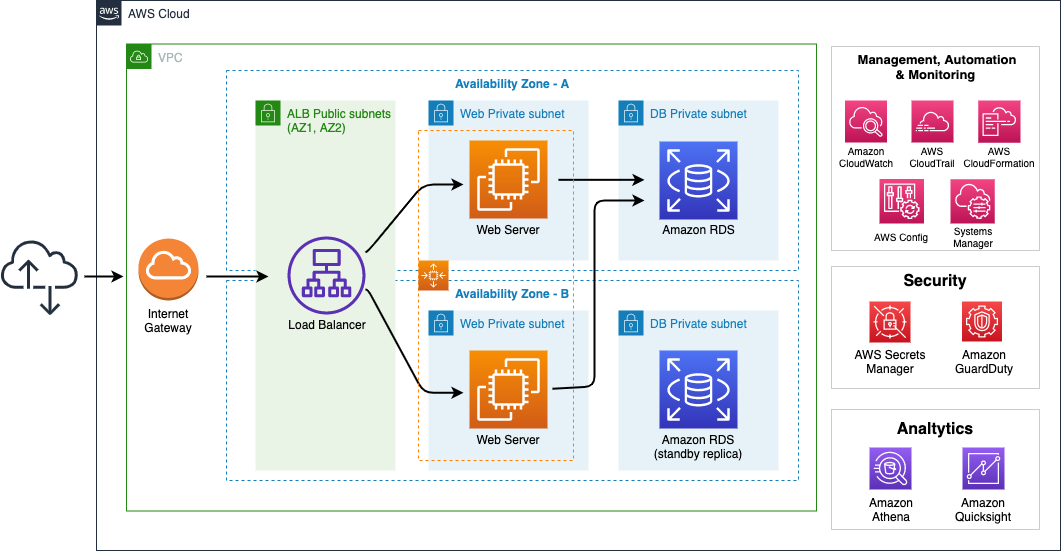
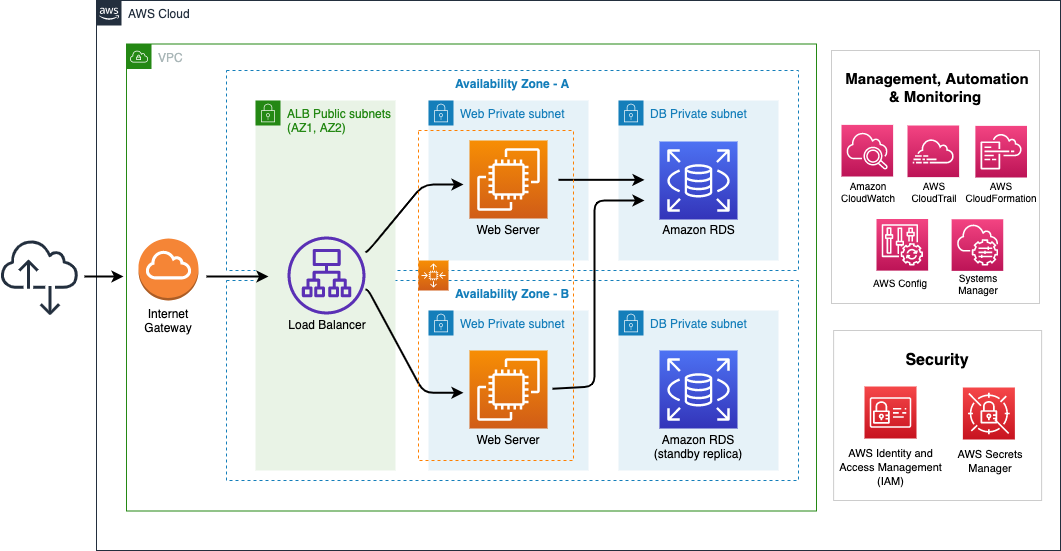
update

Changed region(s): [[0.7776, 0.0617, 0.9953, 0.9564]]

diff --git a/content/work0/_index.md b/content/work0/_index.md
@@ -11,28 +11,27 @@ These labs are designed *to be completed in sequence*, and the full set of instr
 
 ## The context
 
-You work for an AWS Partner, and have a new customer, **AnyCompany**, which is a retail business. One of the main apps for the company is a product catalog; a web application that they recently migrated to the AWS Cloud from their on-premises environment. Even though the application is functional, the customer wants to have an architecture with best practices applied, because the business is growing. They are looking for an architecture that meets the new performance requirements, mitigates risks, and saves money. For them, it is crucial to use automation. 
+You work for **AnyCompany**, a retail business. One of the main apps for the company is a *product catalog;* a web application recently migrated to the AWS Cloud from the on-premises environment. Even though the application is functional, it is crucial to have an architecture with best practices applied, because the business is growing. As part of the Well-Architected practitioners team, you are looking for an architecture that meets the new performance requirements, mitigates risks, and saves money. Automation is also a fundamental part of the solution. 
 
-The following is the initial architecture that you have found. Your mission is to improve upon it by applying some of the Well-Architected principles, according to the company’s needs.
+The following is the initial architecture. Your mission is to improve upon it by applying some of the Well-Architected principles, according to the company’s needs.
 
 <img src="images/starting.png" alt="drawing" width="600"/>
 
 ## Architecture review
 
-You proposed doing a Well-Architected Framework Review (WAFR) of the customer’s environment to better understand the current status and their needs. After that review, you identified some insights, the most relevant of which are listed below:
+You proposed doing a Well-Architected Framework Review (WAFR) of the application’s environment to better understand the current status and the needs. After that review, you identified some insights, the most relevant of which are listed below:
 
-1. They are performing a lot of operational tasks manually. The customer wants to automate the process to provide visibility into some important performance metrics, like memory or disk utilization. Additionally, they need a centralized log monitoring for DB and App. 
-
-2.	It is clear for the customer that they need to have a highly available architecture.
-3.	Security is their top priority. The more insights they can have available related to this topic, the better.
+1. Most of the operational tasks are performed manually. AnyCompany wants to automate the process to provide visibility into some important performance metrics, like memory or disk utilization. Additionally, a centralized log monitoring for DB and App is needed. 
+2.	A highly available architecture is required for the product catalog application.
+3.	Security is a top priority. The more insights available related to this topic, the better.
 4.	They are not sure about the decision that they made when they chose a t2.micro instance to run the application. Performance is something that they do not want to sacrifice. AnyCompany people want to do some stress tests for the application, especially because they are expecting an increase in the demand on the application in the near future.
-5.	Cost matters. The customer would like to have a clear visibility about costs and usage for the AWS Services. They would like to use a flexible tool for creating their own dashboards according to their needs. 
+5.	Cost matters. Other teams at AnyCompany are testing other apps, and have had some users launch EC2 instances with optimized resources, when they are not needed. This situation has increased the monthly bill. Therefore, some controls should be implemented in order to avoid this issue in the future. 
 
-The information above is your starting point to help this customer enhance the architecture and achieve their objectives. You may identify more opportunities for improvement in this architecture but, for the purposes of the workshop, just focus on these findings.
+The information above is your starting point to help enhancing the architecture and achieving organization objectives. You may identify more opportunities for improvement in this architecture but, for the purposes of the workshop, just focus on these findings.
 
 ## Target Architecture
 
-After a Well-Architected Framework Review (WAFR), you and AnyCompany have defined a target architecture. This architecture will help the customer achieve their initial objectives. You are going to utilize the five Well-Architected pillars to implement the following architecture:
+After a Well-Architected Framework Review (WAFR), a target architecture has been defined. This architecture will help AnyCompany to achieve their initial objectives. You are going to utilize the five Well-Architected pillars to implement the following architecture:
 
 <img src="images/target-up.png" alt="drawing" width="1200"/>
 

diff --git a/content/work4/_index.md b/content/work4/_index.md
@@ -11,22 +11,16 @@ The Security pillar encompasses the ability to protect data, systems, and assets
 <img src="images/sec.png" alt="drawing" width="150"/>
 
 {{% notice note %}}
-Security is our top priority and is also for AnyCompany customer. According to the Well-Architected Framework Review (WAFR), you as an AWS Partner recommend to implement some cloud native controls to prevent and detect security issues.
+Security is our top priority and is also for AnyCompany. According to the Well-Architected Framework Review (WAFR), and as a Well-Architected practitioner, you recommend to implement some cloud native controls to prevent and detect security issues.
 {{% /notice %}}
 
 ## Objective
 
-In this hands-on activity, you will identify which cloud-native solutions can mitigate the risks while providing scalability, reliability, and cost optimization at a low operational burden. During this Lab, mainly you will apply the **Enable traceability** design principle, learning how to use cloud native controls like AWS CloudTrail, Security Groups, Amazon  GuardDuty and AWS Systems Manager, to secure the cloud architecture.
+In this hands-on activity, you will identify which cloud-native solutions can mitigate the risks while providing scalability, reliability, and cost optimization at a low operational burden. During this Lab, mainly you will apply the **Enable traceability** design principle, learning how to use cloud native controls like AWS CloudTrail, Security Groups and AWS Systems Manager, to secure the cloud architecture.
 
 ## Services
 
-AWS CloudTrail, AWS Config, Amazon GuardDuty, Amazon VPC, AWS Systems Manager.
-
-## Prerequisites
-
-You will run this Lab at an AWS sponsored workshop, and you will be provided with an AWS Account to perform all the tasks in the following section.
-
-It is strongly recommended to run **Lab 1: Operational Excellence** and **Lab 2: Reliability** in this workshop to perform this Lab. In case you cannot complete Lab 2 before performing this Lab, you could execute the activities, however you will see a different configuration in your console compared to the one in the instructions.
+AWS CloudTrail, AWS Config, Amazon VPC, AWS Systems Manager.
 
 ## Tasks
 
@@ -34,7 +28,6 @@ It is strongly recommended to run **Lab 1: Operational Excellence** and **Lab 2:
 1.	[Improve granular control of communication](https://main.d2azidedm760yt.amplifyapp.com/work4/task-2/)
 1.	[Improve granular network-based controls](https://main.d2azidedm760yt.amplifyapp.com/work4/task-3/)
 1.	[Evaluate detailed logging capabilities](https://main.d2azidedm760yt.amplifyapp.com/work4/task-4/)
-1.	[Evaluate network-based protections](https://main.d2azidedm760yt.amplifyapp.com/work4/task-5/)
 1.	[Minimize admin access risk](https://main.d2azidedm760yt.amplifyapp.com/work4/task-6/)
 
 ## Architecture

diff --git a/content/work3/_index.md b/content/work3/_index.md
@@ -11,7 +11,7 @@ The reliability pillar encompasses the ability of a workload to perform its inte
 <img src="images/rel.png" alt="drawing" width="150"/>
 
 {{% notice note %}}
-During the Well-Architected Framework Review (WAFR) you explained to **AnyCompany** about how important is to build a resilient solution as required to protect against failure. The customer understood the risks and business impact in case of failure. They trust your criteria as an APN Partner to recommend them the best resilient architecture. 
+During the Well-Architected Framework Review (WAFR) you checked with other people at **AnyCompany** about how important is to build a resilient solution as required to protect against failure. Through those conversations, there was a clear understanding about the risks and business impact in case of failure. That is why you will help to implement a resilient architecture for the application. 
 {{% /notice %}}
 
 ## Objective
@@ -21,12 +21,6 @@ This hands-on lab will guide you through the steps to improve reliability of a s
 ## Services
 
 Amazon EC2, Amazon RDS (Multi-AZ), ELB, EC2 Auto Scaling Groups, AWS Secrets Manager
-
-## Prerequisites
-
-You will run this Lab at an AWS sponsored workshop then you will be provided with an AWS Account to perform all the tasks in the following section.
-
-You will use Systems Manager in this Lab, therefore it is strongly recommended to run **Lab 1: Operational Excellence** in this workshop to perform this Lab. **In case you cannot run all tasks in Lab 1, ensure to run Task 1: Checking the existing architecture and Task 4: Enabling SSM for EC2 instances**.
 
 ## Duration
 

diff --git a/content/work5/task-4.md b/content/work5/task-4.md
@@ -56,7 +56,7 @@ aws ssm describe-instance-information --output text --query "InstanceInformation
 7.	After the script finishes running, the instances count in the auto scaling group and their CPU% utilization will get back to normal.
 
 {{% notice info %}}
-One of the more important aspects about monitoring performance and runnnig experiments is that **you can use data to make fact-based decisions about your architecture**. In the case of AnyCompany and according to the insights that you got in this Lab: **What would you recommend to the customer?** If the customer want to meet the demand in the near future, should the customer change the EC2 instance type? Should the customer increase the maximum limit configuration for the EC2 Auto Scaling Group? Are there other activities to do before making decisions?
+One of the more important aspects about monitoring performance and runnnig experiments is that **you can use data to make fact-based decisions about your architecture**. In the case of AnyCompany and according to the insights that you got in this Lab: **What would you recommend?** If AnyCompany wants to meet the demand in the near future, should they change the EC2 instance type? Should they increase the maximum limit configuration for the EC2 Auto Scaling Group? Are there other activities to do before making decisions?
 {{% /notice %}}
 
 ---

diff --git a/content/work5/_index.md b/content/work5/_index.md
@@ -13,7 +13,7 @@ The Performance Efficiency pillar includes the ability to use computing resource
 
 
 {{% notice note %}}
-Starting with the Well-Architected Framework Review executed to our customer, we have the information about the decision to use the t2.micro instance. Also, **AnyCompany** wants to perform stress tests to be prepared for an increment in the demand in a near future.
+Starting with the Well-Architected Framework Review executed, we have the information about the decision to use the t2.micro instance. Also, **AnyCompany** wants to perform stress tests to be prepared for an increment in the demand in a near future.
 Based on than information, the objective of this module is to identify how AnyCompany can create and operate their infrastructure with the best performance, while maintaining the alignment to the business and technical needs. 
 {{% /notice %}}
 
@@ -28,12 +28,6 @@ You will visualize and set thresholds to check the performance for the infrastru
 ## Services
 
 Amazon CloudWatch, AWS Auto Scaling.
-
-## Prerequisites
-
-You will run this Lab at an AWS sponsored workshop then you will be provided with an AWS Account to perform all the tasks in the following section.
-
-You should run **Lab 2: Reliability** in this workshop before performing this Lab. 
 
 ## Duration
 

diff --git a/content/work4/task-1.md b/content/work4/task-1.md
@@ -80,20 +80,6 @@ Now that we’ve got good logging of the Control Plane (API commands and Changes
 You can close the Welcome box that it is open after the Confirmation. 
 {{% /notice %}}
 
-11. Then, let us use a Service like **GuardDuty** to monitor logs in near real time for security anomalies. Go to Service search box > GuardDuty.
-
-<img src="../images/ct11.png" alt="drawing" width="800"/>
-
-12. After **Getting Started** we can quickly enable this service with just one click. It’s that easy. 
-
-<img src="../images/ct12.png" alt="drawing" width="600"/>
-
-13. We are going to **Enable GuardDuty** 30 day free trial. 
-
-<img src="../images/ct16.png" alt="drawing" width="600"/>
-
-We'll check out what GuardDuty is monitoring later in this lab.
-
 {{% notice note %}}
 When we looked at on-premises environment, we identified that there are disjointed security tooling, lack of insight into what’s going on in the environment, and difficulty managing change control and permissions in the environment, all led to risks becoming problems pretty fast. With the services we just enabled, we’ll see how we now have complete insight into who’s doing what in the environment, what changes are being made, and when problems start to arise.
 {{% /notice %}}

diff --git a/content/_index.md b/content/_index.md
@@ -7,7 +7,5 @@ weight = 1
 
 AWS [**Well-Architected**](https://aws.amazon.com/well-architected) helps cloud architects build secure, high-performing, resilient, and efficient infrastructure for their applications and workloads. Based on five pillars — operational excellence, security, reliability, performance efficiency, and cost optimization — AWS Well-Architected provides a consistent approach for customers and partners to evaluate architectures, and implement designs that can scale over time.
 
-Hello world, this is for customers
-
 <img src="wa.png" alt="drawing" width="450"/>
 

diff --git a/content/work4/task-6.md b/content/work4/task-6.md
@@ -1,7 +1,7 @@
 +++ 
-title = "Task 6: Minimize admin access risk" 
+title = "Task 5: Minimize admin access risk" 
 chapter = false 
-weight = 6 
+weight = 5 
 +++
 
 Finally, let's further reduce administrative risks by reducing access and improving logging. With our current setup, there is still a risk of open administrative ports, right? It's a bigger risk if those ports are open to the internet and a smaller risk if open internally for malware to find. Can we find a way around this requirement?

diff --git a/content/work2/_index.md b/content/work2/_index.md
@@ -22,10 +22,6 @@ In this Lab, you will use AWS Systems Manager according to the **“Perform oper
 
 Amazon EC2, AWS Systems Manager, Amazon CloudWatch
 
-## Prerequisites
-
-You will run this Lab at an AWS sponsored workshop then you will be provided with an AWS Account to perform all the tasks in the following section.
-
 ## Duration
 
 Estimated time to complete: 1 hour
